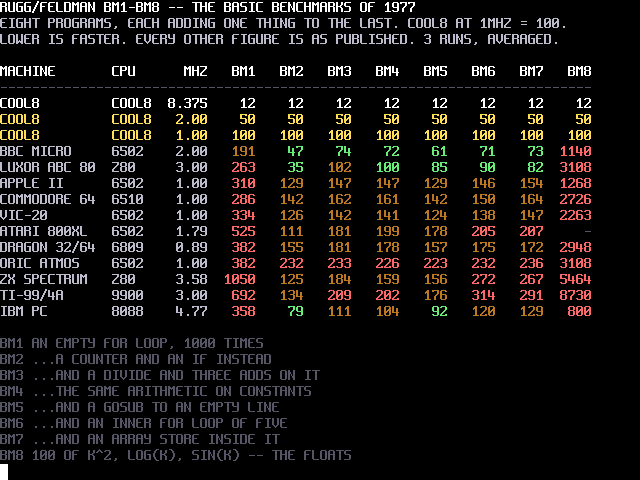
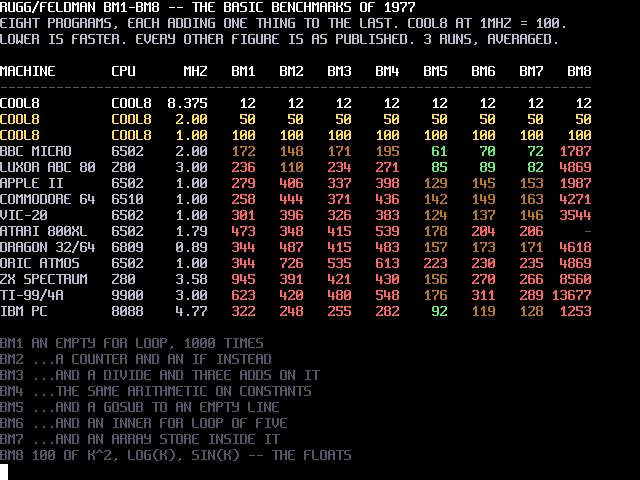
A verified memo in prg_find, and zp.asm was never a zero page
## The memo

Every GOTO and GOSUB walked the program from PROGBOT, so their cost grew
with how far in the target sat. `prg_find` remembers the last line it
resolved and where it was, in four bytes.

**It is verified, not invalidated.** The record at the remembered
address must still carry the remembered number, checked on every hit, so
an edit, a RENUM, a DELETE or a LOAD cannot leave a stale pointer -- a
moved line fails the check and falls through to the search. The version
that clears the memo instead needs six paths to be right; this one needs
none, and a missed one there is silent corruption rather than an error.

Only an exact hit is stored: prg_find answers with the first record at
or past the number, and remembering a near miss would hand it back for a
line that does not exist.

## Measured, on the benchmark that was already there

BBC Micro's index, before and after -- higher means COOL8 is faster:

    BM1  172 -> 191      BM5    61 -> 60
    BM2   48 -> 159      BM6    71 -> 70
    BM3   74 -> 166      BM7    73 -> 73
    BM4   72 -> 195      BM8  1140 -> 1702

**BM2 to BM4 are 2.2 to 3.3 times faster. BM5 to BM7 did not move**, and
that is exactly what one entry predicts: BM2-BM4 jump to a single target
every pass, BM5-BM7 alternate between `GOSUB 2` and `GOTO 520` so each
call evicts the other. A second slot is the obvious follow-up and the
data now says so rather than my guessing it.

## The four bytes cost nothing
[…]

diff --git a/tools/memmap.py b/tools/memmap.py
@@ -9,7 +9,7 @@
 Addresses were written down in eight places and none of them was in
 charge. `sim/test_interp.py` carried `VARS = 0x0040` as a private copy,
 `sim/build_basic.py` its own `ORG` and `TOP`, `sw/basic.bas` a prose map
-in a comment, `sw/zp.asm` another one -- and `zp.asm`'s had already gone
+in a comment, `sw/lowram.asm` another one -- and `lowram.asm`'s had already gone
 stale, still listing `FORSTK` in page 0 after it moved out.
 
 **The first cure was a hand-written table here, and it drifted too.**
@@ -410,7 +410,7 @@ def sysbot_asm(write=False):
     not knowable from inside any one of them, and changes.
 
     So it is derived here, where every claim is visible at once, and
-    written out as a literal for zp.asm to include. Same arrangement as
+    written out as a literal for lowram.asm to include. Same arrangement as
     the I/O page and the token numbering: the number exists once, a tool
     puts it there, and `--check` fails the build if the file on disk
     stops matching what the claims say ([D67]).
@@ -528,7 +528,7 @@ def check():
 
     # **SYSBOT has to be the lowest claim, and once was not.**
     #
-    # It read `SYSBOT = irring`, which was true while sw/zp.asm held
+    # It read `SYSBOT = irring`, which was true while sw/lowram.asm held
     # every claim in the region. sw/console.asm then claimed $7DAF-$7DE8
     # -- CONT, the mirror, the cursor, the whole geometry -- underneath
     # it, and USERTOP went on pointing 58 bytes too high. `DIM A(3)`

diff --git a/tools/cool8asm.py b/tools/cool8asm.py
@@ -333,7 +333,7 @@ class Assembler:
         through a chain, is circular. The two used to be one check
         against a single growing set, which made the second, innocent
         include of a shared header report "circular include" -- and that
-        is not a hypothetical: `sw/io.asm` is wanted by `zp.asm` for the
+        is not a hypothetical: `sw/io.asm` is wanted by `lowram.asm` for the
         BASIC image and by `fs.asm`, which `sim/test_fs.py` assembles on
         its own, so the header cannot be reached by exactly one route.
         A C header has an include guard for this reason; here the

diff --git a/sim/test_run.py b/sim/test_run.py
@@ -110,7 +110,7 @@ CASES = [
     # the only way a BASIC program executes an ASM block -- h_asm itself
     # just steps over one -- and it is what a loadable library is
     # reached through, so it is worth a case of its own. A stores at
-    # VARS, which sw/zp.asm puts at $0040.
+    # VARS, which sw/lowram.asm puts at $0040.
     # `ASM` is no longer a keyword ([D63]) -- $9E is SYS now -- so a
     # program that says ASM is assigning to a variable of that name.
     # Nothing errors, which is the right outcome for a word that never

diff --git a/sim/build_basic.py b/sim/build_basic.py
@@ -242,7 +242,7 @@ def by_module(syms):
 
     **A hand-maintained burn-down is a table that drifts**, and this
     project has been bitten by every one it has written down -- the drop
-    table in 13-basic.md was five guesses, `zp.asm`'s free-space figure
+    table in 13-basic.md was five guesses, `lowram.asm`'s free-space figure
     was wrong three times running. So the plan states the *grouping*,
     which is a decision, and this measures the *bytes*, which are not.
 

diff --git a/sim/test_asm.py b/sim/test_asm.py
@@ -204,7 +204,7 @@ v_llen: .byte 0
 v_ip:   .byte 0
 v_fok:  .byte 0
 v_progend: .word 0
-        .include "zp.asm"
+        .include "lowram.asm"
         .include "interp.asm"
         .include "toktab.asm"
         .include "asm.asm"
@@ -363,7 +363,7 @@ v_llen: .byte 0
 v_ip:   .byte 0
 v_fok:  .byte 0
 v_progend: .word 0
-        .include "zp.asm"
+        .include "lowram.asm"
         .include "interp.asm"
         .include "toktab.asm"
         .include "asm.asm"

diff --git a/sim/test_interp.py b/sim/test_interp.py
@@ -986,7 +986,7 @@ def trace(pattern, n=400):
     print("  " + name_)
     print()
     m, syms, why = boot(prog)
-    err = m.bus.mem[0x0018]              # ERR, sw/zp.asm
+    err = m.bus.mem[0x0018]              # ERR, sw/lowram.asm
     print("  run:     %s" % why)
     print("  ERR:     $%02X%s" % (err, "  (E_DONE -- it finished)"
                                   if err == 0xFF else ""))

diff --git a/docs/01-decisions.md b/docs/01-decisions.md
@@ -3007,7 +3007,7 @@ which is this project's most expensive shape and the day had arrived.
 Page 0 was full to the byte, so `NBUF`'s seventh byte pushed the run
 above it up one and `SDIG` had to leave. It went to `$0074` and
 `memmap.check()` refused: that byte is `FSVARS`, in `fs.asm`, invisible
-from `zp.asm`. The free run is `$00A4..$00D9`. **Three files claim page 0
+from `lowram.asm`. The free run is `$00A4..$00D9`. **Three files claim page 0
 and none of them can see the other two** -- the tool is the only thing
 that knows, which is the whole argument for [D67].
 
@@ -3016,7 +3016,7 @@ Then the image outgrew its slack: 245 bytes between system storage and
 
 **The eleven came out of dead system storage, not out of the user's
 region.** `CSTKBUF` had been a 32-byte reservation since the call stack
-moved into user memory -- `zp.asm` said "dead" beside it in so many
+moved into user memory -- `lowram.asm` said "dead" beside it in so many
 words -- and it was holding the string accumulator 32 bytes higher than
 it needed to sit. Deleting it drops `SACCBUF` and `FSPBUF` to `$B26A`
 and the gap becomes 277. Nothing else moves.
@@ -4075,7 +4075,7 @@ So every written statement of the map was wrong, in the same direction:
 | said | actually |
 |---|---|
 | `memmap.py`: `$00A4-$00D9` free, 54 bytes | the editor owns most of it |
-| `zp.asm` and [D66]: `$00B1-$00CF` free, **31 bytes** | `DIM cont(31) AS BYTE AT $00B0` owns `$00B0-$00CF`; the 31 bytes do not exist |
+| `lowram.asm` and [D66]: `$00B1-$00CF` free, **31 bytes** | `DIM cont(31) AS BYTE AT $00B0` owns `$00B0-$00CF`; the 31 bytes do not exist |
 | `memmap.py`'s `PAGE0` | **no entry at all** for `$0033-$003F` — `SACC`, `SLEN`, `STYPE`, `DVSR`, `DREM`, `DSGN`, `CSTK`, `CDEPTH`, `SDIG` |
 | `memmap.py`'s `REGIONS` | omits `SACC`/`pbuf` at `$7F00-$7FFF` and the whole `$FF00` workspace page |
 
@@ -4093,7 +4093,7 @@ the fix that keeps working is the one where a claim cannot be silent.
 
 [D6] dropped the zero page *and* a direct-page register: every absolute
 access is three bytes and the same cycles wherever it points, and
-`sw/zp.asm`'s own header has said so all along — "$0040 costs exactly
+`sw/lowram.asm`'s own header has said so all along — "$0040 costs exactly
 what $9040 costs". The scarcity was self-inflicted, and it was expensive
 twice: it is why [D66] recorded "53 bytes, and that is the whole
 budget", and it is why `FORSTK`, `garg`, `lwk`, `frames`, `rseed`, the
@@ -4140,7 +4140,7 @@ Four rules carry it:
 
 - **One file is the map**, in the language the assembler reads, so it
   cannot drift from what is built. `tools/memmap.py` declares nothing
-  and derives everything; the prose maps in `zp.asm`, `basic.bas` and
+  and derives everything; the prose maps in `lowram.asm`, `basic.bas` and
   [04-system.md](04-system.md) §2 stop restating it. `sw/basic.bas`'s
   `CONST PROG/MEMTOP/USERTOP/SCREEN` become `EXTERN`s of the same
   names, so the numbers exist once.
@@ -4273,7 +4273,7 @@ to generate it rather than to be careful with it.
   growing `seen` set meant the second, innocent include of a shared
   header reported `circular include`. It is an ancestor-chain check
   plus include-once now, which is what lets `sw/io.asm` be reached both
-  through `zp.asm` and through `fs.asm` — and `sim/test_fs.py`
+  through `lowram.asm` and through `fs.asm` — and `sim/test_fs.py`
   assembles the latter on its own, so the header cannot be reached by
   exactly one route.
 - **`Assembler.split()` rstrips the comment**, which is right for
@@ -4287,7 +4287,7 @@ to generate it rather than to be careful with it.
 1. **Made observable.** The `;:` annotations, `memmap.py` deriving
    rather than declaring, and the collision check. No behaviour change,
    and the image stayed byte-identical at 23,541 across the annotation
-   of `zp.asm`, `fs.asm` and `interp.asm` — which is the check that the
+   of `lowram.asm`, `fs.asm` and `interp.asm` — which is the check that the
    step really was inert.
 2. **Fixed what the check found**: `SFRAC`/`cont`, on its first run.
 3. **Made the I/O addresses derivable** — generated `sw/io.asm` and
@@ -4574,7 +4574,7 @@ routine onto the shared parser is what made it reachable.
   page 0. Only the `AT` declarations are storage by construction.
 - `SFRAC` moved to `$00B1`. The real map is `$00A4-$00B0` editor,
   **`$00B1-$00CF` free (31 bytes)**, `$00D0-$00D8` editor again -- not
-  the "54 bytes free" `zp.asm`'s own header claimed, which is now
+  the "54 bytes free" `lowram.asm`'s own header claimed, which is now
   corrected.
 
 **The lesson for the remaining 87 routines**: a ported routine runs in
@@ -4985,7 +4985,7 @@ argument below evaporates.
 There are 21 bytes free, so *either* needs a cut. Nothing that works
 today is lost by removing it, because nothing works today.
 
-Page 0 is the sharper half. [zp.asm](../sw/zp.asm) hands out every byte;
+Page 0 is the sharper half. [lowram.asm](../sw/lowram.asm) hands out every byte;
 `$00DA-$00FF` is the assembler's. That 38 bytes is why `HIMEM` cannot
 exist ([D62](#d62--floating-point-ships-as-a-loadable-library-not-as-part-of-the-system)),
 and page 0 is the one resource with no slack anywhere.
@@ -5143,7 +5143,7 @@ unpack, normalise and int-conversion core from [D61](#d61--real-floating-point-c
 and **71 bytes of workspace that lives inside the package**.
 
 That workspace is worth its own note. It was first written at fixed
-page-0 addresses out of 6502 habit, and [zp.asm](../sw/zp.asm) hands out
+page-0 addresses out of 6502 habit, and [lowram.asm](../sw/lowram.asm) hands out
 every byte of page 0 — `FACC` landed in the filesystem's variables and
 the temporaries sat on top of **`FORSTK`**. An integral plot is a `FOR`
 loop calling these routines, so it would have corrupted itself on the

diff --git a/ASM_MOVE_PLAN.md b/ASM_MOVE_PLAN.md
@@ -359,7 +359,7 @@ What the switch-over cost that the plan did not predict, all of it in
   settled the layering the plan had backwards: `fscmd` is *above*
   `interp`, since its handlers use `eval`, `cnext` and `SKIPSP`.
 * **`USERTOP` was 313 bytes too high.** `SYSBOT = irring` was true while
-  `zp.asm` held every claim; `console.asm` and `main.asm` claimed below
+  `lowram.asm` held every claim; `console.asm` and `main.asm` claimed below
   it, so the heap was handed system storage and `DIM A(3)` wrote an
   array over the console's geometry. The floor is generated now
   (`sw/sysbot.asm`, from `tools/memmap.py`) and `poe check` refuses a
@@ -387,7 +387,7 @@ assembly stops being an `s_` symbol with a compiled body — so
 routine in neither the plan nor a module is reported by name.
 
 Every hand-maintained table this project has written down has drifted —
-the drop table in 13-basic.md was five guesses, `zp.asm`'s free-space
+the drop table in 13-basic.md was five guesses, `lowram.asm`'s free-space
 figure was wrong three times running, `memmap.py`'s page-0 map missed
 thirteen bytes. This one is measured for that reason.
 

diff --git a/docs/04-system.md b/docs/04-system.md
@@ -42,7 +42,7 @@ ASIC.
 follows it**, the same arrangement `tools/opcodes.py` has for the
 encoding: Python imports addresses from there rather than writing one
 down twice, and `poe check` fails on drift. The *software* allocation of
-page 0 belongs to [`sw/zp.asm`](../sw/zp.asm), which is what the
+page 0 belongs to [`sw/lowram.asm`](../sw/lowram.asm), which is what the
 assembler reads, and `memmap.py` verifies itself against those equates.
 
 | Range | Size | Contents |
